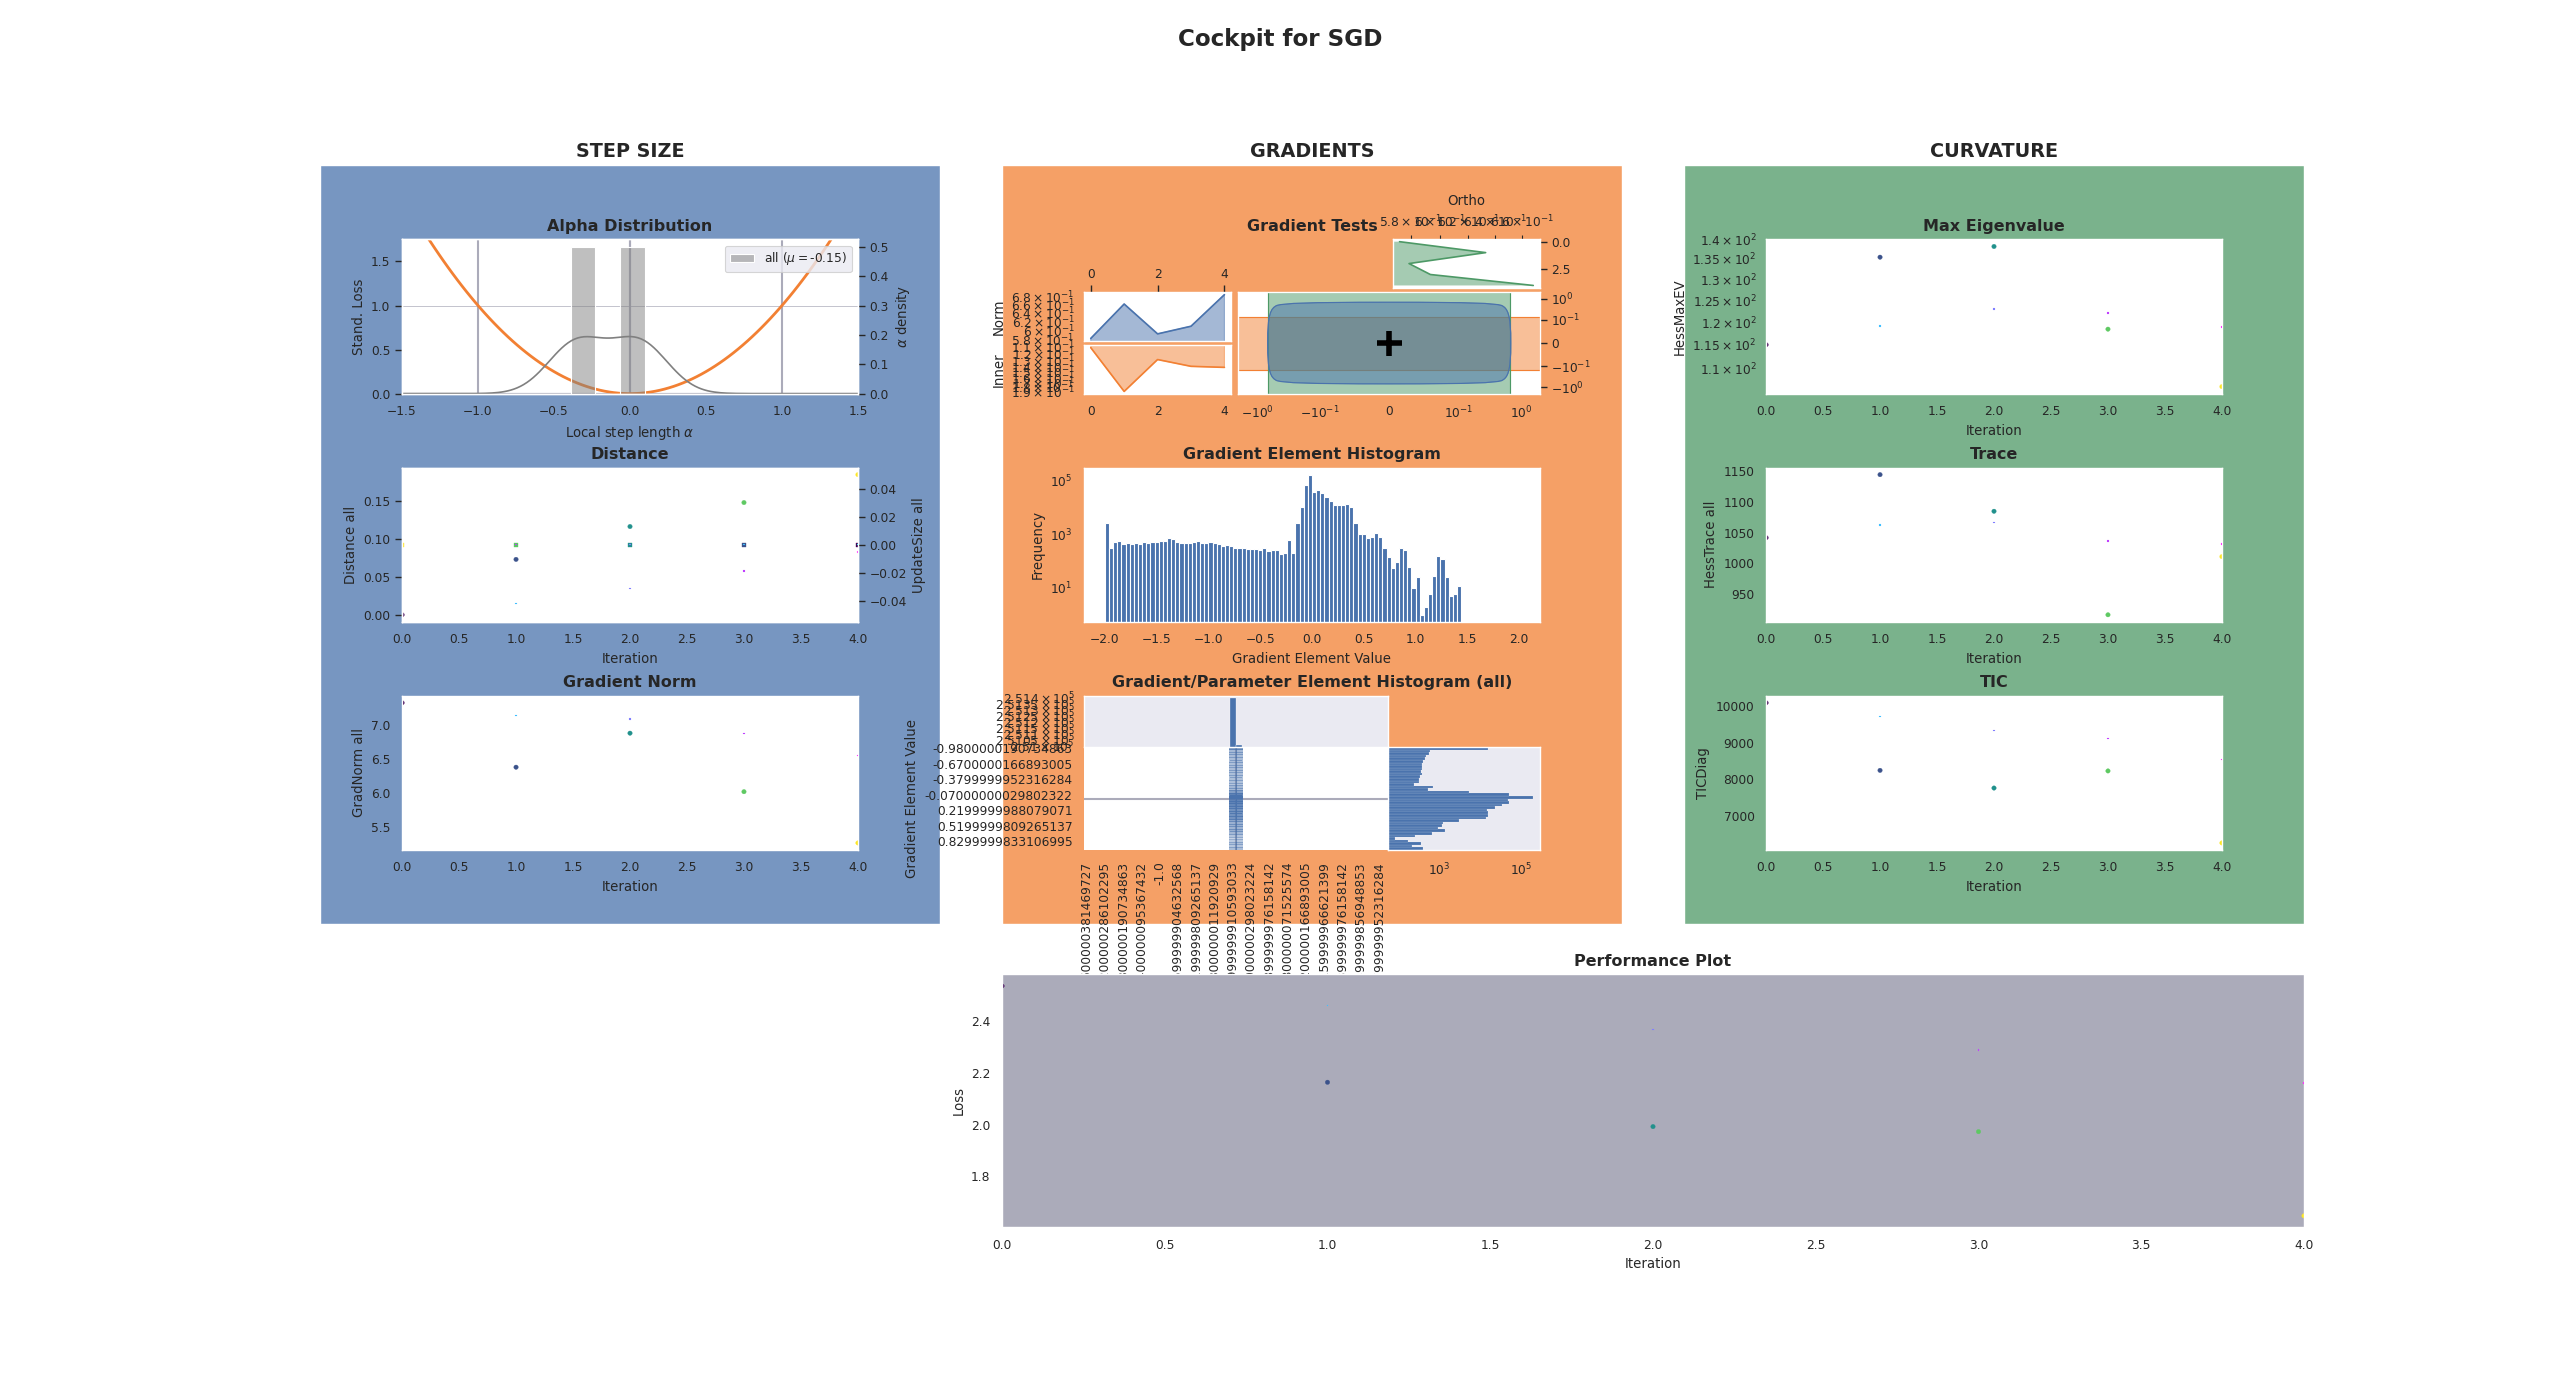
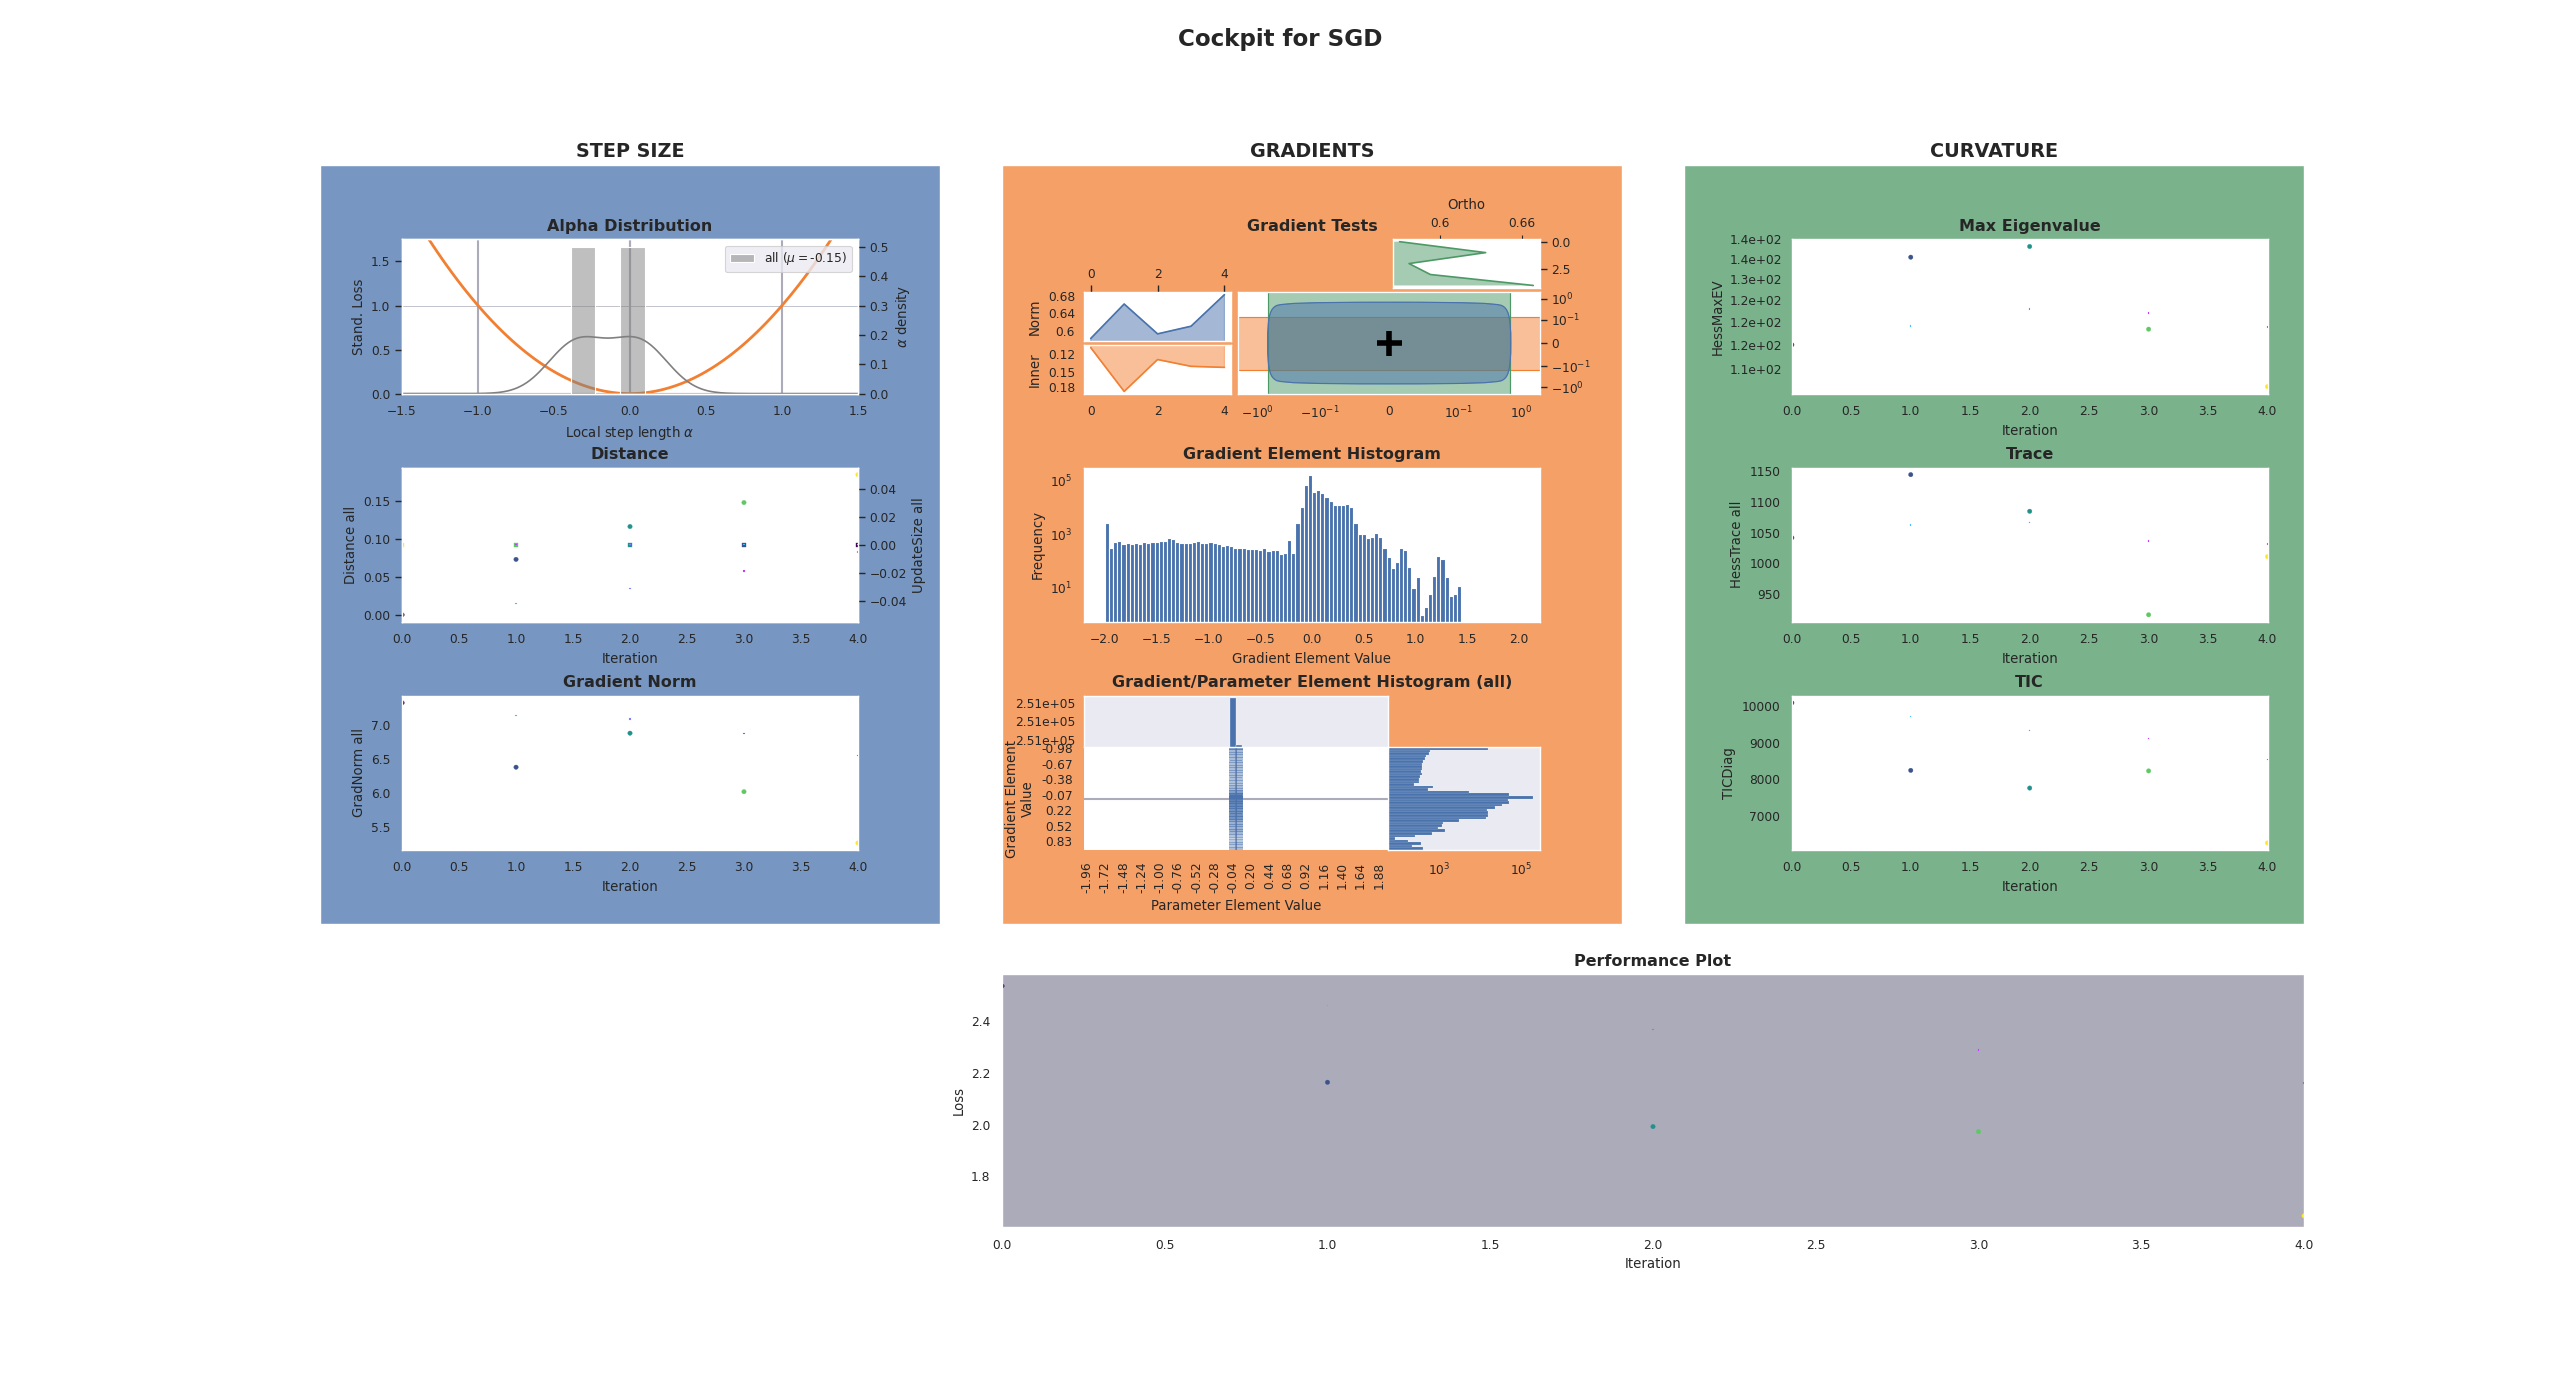
Incorporate feedback from alpha test (#2)
* [REP] Ignore build files of doc

* [DOC] Add pip install cmd to example

Highlight the need for the utils file

* [REP] Ignore logfiles (from running examples)

* [FIX] Move examples utilites out of subdir

* [DOC] Add install instruction for DeepOBS

* [DOC] Make pip install very prominent

* [DOC] Remove sphinx copybutton due to issue

Highlighted lines have an extra line break, probably related to this: https://github.com/executablebooks/sphinx-copybutton/issues/118

If there is a fix, we can enable it again.

* [DOC] Remove sphinx copybutton due to issue

    Highlighted lines have an extra line break, probably related to this: https://github.com/executablebooks/sphinx-copybutton/issues/118

    If there is a fix, we can enable it again.

* [FIX] Output to terminal when plotting

* [FIX] Ignore irrelevant torch warning for examples

* [DOC] Document terminal output in examples

* [TST] Define MPLBACKEND for tests

* [FIX] More meaningful plotting msg

* [DOC] Add a blocking plot after training

* [FIX] Move Curvature plots slighty right

* [FIX] Round histograms ticks

* [FIX] Format ticks

* [DOC] Update preview example 01

* [DOC] Make example 02 longer

* [DOC] Run DeepOBS Example for 50 epochs

* [DOC] Add quickstart page [WIP]

* [FIX] Use correct shift between start and end in UpdateSize (#3)

The old value was correctly documented to be 1, but wrongly set to 0.
This lead to the UpdateSize being zero, because parameters from the same
[…]

diff --git a/examples/02_advanced_fmnist.py b/examples/02_advanced_fmnist.py
@@ -1,8 +1,8 @@
 """A slightly advanced example of using Cockpit with PyTorch for Fashion-MNIST."""
 
 import torch
+from _utils_examples import cnn, fmnist_data, get_logpath
 from backpack import extend, extensions
-from utils.utils_examples import cnn, fmnist_data, get_logpath
 
 from cockpit import Cockpit, CockpitPlotter, quantities
 from cockpit.utils import schedules
@@ -19,16 +19,17 @@ opt = torch.optim.SGD(model.parameters(), lr=5e-1)
 # Create Cockpit and a plotter
 # Customize the tracked quantities and their tracking schedule
 quantities = [
-    quantities.GradNorm(schedules.linear(interval=2)),
+    quantities.GradNorm(schedules.linear(interval=1)),
     quantities.Distance(schedules.linear(interval=1)),
     quantities.UpdateSize(schedules.linear(interval=1)),
-    quantities.GradHist1d(schedules.linear(interval=4), bins=10),
+    quantities.HessMaxEV(schedules.linear(interval=3)),
+    quantities.GradHist1d(schedules.linear(interval=10), bins=10),
 ]
 cockpit = Cockpit(model.parameters(), quantities=quantities)
 plotter = CockpitPlotter()
 
 # Main training loop
-max_steps, global_step = 5, 0
+max_steps, global_step = 50, 0
 for inputs, labels in iter(fmnist_data):
     opt.zero_grad()
 
@@ -56,13 +57,14 @@ for inputs, labels in iter(fmnist_data):
 
     print(f"Step: {global_step:5d} | Loss: {loss.item():.4f}")
 
-    plotter.plot(
-        cockpit,
-        savedir=get_logpath(),
-        show_plot=False,
-        save_plot=True,
-        savename_append=str(global_step),
-    )
+    if global_step % 10 == 0:
+        plotter.plot(
+            cockpit,
+            savedir=get_logpath(),
+            show_plot=False,
+            save_plot=True,
+            savename_append=str(global_step),
+        )
 
     if global_step >= max_steps:
         break

diff --git a/cockpit/instruments/histogram_2d_gauge.py b/cockpit/instruments/histogram_2d_gauge.py
@@ -5,8 +5,13 @@ import warnings
 import numpy as np
 import pandas as pd
 import seaborn as sns
+from matplotlib import ticker
 
-from cockpit.instruments.utils_instruments import _beautify_plot, check_data
+from cockpit.instruments.utils_instruments import (
+    _beautify_plot,
+    _ticks_formatter,
+    check_data,
+)
 
 
 def histogram_2d_gauge(
@@ -76,7 +81,7 @@ def histogram_2d_gauge(
     joint_plot_args = {
         "facecolor": self.bg_color_instruments,
         "xlabel": "Parameter Element Value",
-        "ylabel": "Gradient Element Value",
+        "ylabel": "Gradient Element\nValue",
     }
 
     df = _get_2d_histogram_data(
@@ -88,6 +93,9 @@ def histogram_2d_gauge(
     sns.heatmap(data=df, cbar=False, cmap=cmap, ax=ax_joint)
 
     _beautify_plot(ax=ax_joint, **joint_plot_args)
+
+    ax_joint.set_xticklabels(_ticks_formatter(ax_joint.get_xticklabels()))
+    ax_joint.set_yticklabels(_ticks_formatter(ax_joint.get_yticklabels()))
 
     # "Zero lines
     # TODO This assumes that the bins are symmetrical!
@@ -109,6 +117,7 @@ def histogram_2d_gauge(
         ax_xmargin.barh(
             mid_points, vals, height=bin_size, color=self.primary_color, linewidth=0.1
         )
+        ax_xmargin.xaxis.set_minor_locator(ticker.MaxNLocator(3))
 
         ax_ymargin = fig.add_subplot(gs[0, :2])
         ax_ymargin.set_yscale("log")
@@ -127,6 +136,8 @@ def histogram_2d_gauge(
             color=self.primary_color,
             linewidth=0.2,
         )
+        ax_ymargin.yaxis.set_minor_locator(ticker.MaxNLocator(3))
+        ax_ymargin.yaxis.set_minor_formatter(ticker.FormatStrFormatter("%.3g"))
 
 
 def _default_trafo(array):

diff --git a/cockpit/instruments/gradient_tests_gauge.py b/cockpit/instruments/gradient_tests_gauge.py
@@ -4,6 +4,7 @@ import warnings
 
 import matplotlib as mpl
 import matplotlib.pyplot as plt
+from matplotlib import ticker
 
 from cockpit.instruments.utils_instruments import check_data
 
@@ -88,26 +89,29 @@ def _format(self, ax_all, ax_norm, ax_inner, ax_ortho):
 
     ax_norm.set_ylabel("Norm")
     ax_norm.set_yscale("log")
-
     ax_norm.xaxis.tick_top()
     ax_norm.set_facecolor(self.bg_color_instruments)
     ax_norm.set_xscale(iter_scale)
+    ax_norm.yaxis.set_minor_locator(ticker.MaxNLocator(3))
+    ax_norm.yaxis.set_minor_formatter(ticker.FormatStrFormatter("%.2g"))
 
     ax_inner.set_ylabel("Inner")
     ax_inner.set_yscale("log")
-
     ax_inner.invert_yaxis()
     ax_inner.set_facecolor(self.bg_color_instruments)
     ax_inner.set_xscale(iter_scale)
+    ax_inner.yaxis.set_minor_locator(ticker.MaxNLocator(3))
+    ax_inner.yaxis.set_minor_formatter(ticker.FormatStrFormatter("%.2g"))
 
     ax_ortho.set_title("Ortho")
     ax_ortho.xaxis.tick_top()
     ax_ortho.yaxis.tick_right()
     ax_ortho.set_xscale("log")
-
     ax_ortho.invert_yaxis()
     ax_ortho.set_yscale(iter_scale)
     ax_ortho.set_facecolor(self.bg_color_instruments)
+    ax_ortho.xaxis.set_minor_locator(ticker.MaxNLocator(2))
+    ax_ortho.xaxis.set_minor_formatter(ticker.FormatStrFormatter("%.2g"))
 
 
 def _plot(self, ax_all, ax_norm, ax_inner, ax_ortho):

diff --git a/examples/03_deepobs.py b/examples/03_deepobs.py
@@ -1,20 +1,19 @@
 """An example of using Cockpit with DeepOBS."""
 
+from _utils_deepobs import DeepOBSRunner
+from _utils_examples import get_logpath
 from torch.optim import SGD
-from utils.deepobs_runner import DeepOBSRunner
-from utils.utils_examples import get_logpath
 
 from cockpit.utils import configuration, schedules
 
 optimizer = SGD
 hyperparams = {"lr": {"type": float, "default": 0.001}}
 
-schedule = schedules.linear(20)
-quantities = configuration.configuration("full", track_schedule=schedule)
+track_schedule = schedules.linear(10)
+plot_schedule = schedules.linear(20)
+quantities = configuration.configuration("full", track_schedule=track_schedule)
 
-runner = DeepOBSRunner(
-    optimizer, hyperparams, quantities=quantities, plot_schedule=schedule
-)
+runner = DeepOBSRunner(optimizer, hyperparams, quantities, plot_schedule=plot_schedule)
 
 
 def const_schedule(num_epochs):
@@ -26,7 +25,7 @@ runner.run(
     testproblem="quadratic_deep",
     output_dir=get_logpath(),
     l2_reg=0.0,
-    num_epochs=15,
+    num_epochs=50,
     show_plots=True,
     save_plots=False,
     save_final_plot=True,

diff --git a/cockpit/plotter.py b/cockpit/plotter.py
@@ -152,6 +152,9 @@ class CockpitPlotter:
 
         # Show or Save plots
         if show_plot:
+            msg = "[cockpit|plot] Showing current Cockpit."
+            msg += " Blocking. Close plot to continue." if block else ""
+            print(msg)
             plt.show(block=block)
             plt.pause(0.001)
         if save_plot:
@@ -236,10 +239,13 @@ class CockpitPlotter:
 
         # Build inner structure of this plotting group
         # We use additional "dummy" gridspecs to position the instruments
+        inner_width_ratios_curvature = self.inner_width_ratios[:]
+        inner_width_ratios_curvature[2] = 0.0
+        inner_width_ratios_curvature[0] = 1.5 * inner_width_ratios_curvature[0]
         self.gs_curvature = grid_spec.subgridspec(
             self.inner_num_rows,
             self.inner_num_cols,
-            width_ratios=self.inner_width_ratios,
+            width_ratios=inner_width_ratios_curvature,
             height_ratios=self.inner_height_ratios,
             hspace=self.inner_hspace,
         )

diff --git a/tests/test_examples/test_examples.py b/tests/test_examples/test_examples.py
@@ -4,23 +4,19 @@ import os
 import pathlib
 import runpy
 import sys
-from unittest.mock import patch
 
-import matplotlib as mpl
 import pytest
 
-mpl.use("Agg")
+SCRIPTS = sorted(pathlib.Path(__file__, "../../..", "examples").resolve().glob("*.py"))
+SCRIPTS_STR, SCRIPTS_ID = [], []
+for s in SCRIPTS:
+    if not str(s).split("/")[-1].startswith("_"):
+        SCRIPTS_STR.append(str(s))
+        SCRIPTS_ID.append(str(s).split("/")[-1].split(".")[0])
 
-scripts = sorted(pathlib.Path(__file__, "../../..", "examples").resolve().glob("*.py"))
-scripts_str, scripts_id = [], []
-for s in scripts:
-    scripts_str.append(str(s))
-    scripts_id.append(str(s).split("/")[-1].split(".")[0])
 
-
-@patch("time.sleep")
-@pytest.mark.parametrize("script", scripts_str, ids=scripts_id)
-def test_example_scripts(mock, script):
+@pytest.mark.parametrize("script", SCRIPTS_STR, ids=SCRIPTS_ID)
+def test_example_scripts(script):
     """Run a single example script.
 
     Args:

diff --git a/cockpit/instruments/utils_instruments.py b/cockpit/instruments/utils_instruments.py
@@ -2,6 +2,7 @@
 
 import warnings
 
+import matplotlib as mpl
 import seaborn as sns
 
 
@@ -294,3 +295,22 @@ def check_data(data, requires, min_elements=1):
                 return False
 
     return True
+
+
+def _ticks_formatter(ticklabels, format_str="{:.2f}"):
+    """Format the ticklabels.
+
+    Args:
+        ticklabels ([mpl.text.Text]): List of ticklabels.
+        format_str (str, optional): Formatting string for the labels.
+            Defaults to "{:.2f}".
+
+    Returns:
+        [mpl.text.Text]: Reformatted list of ticklabels.
+    """
+    new_ticks = []
+    for tick in ticklabels:
+        rounded_label = format_str.format(float(tick.get_text()))
+        new_tick = mpl.text.Text(*tick.get_position(), rounded_label)
+        new_ticks.append(new_tick)
+    return new_ticks

diff --git a/cockpit/quantities/update_size.py b/cockpit/quantities/update_size.py
@@ -10,10 +10,10 @@ class UpdateSize(TwoStepQuantity):
     """str: String under which the parameters are cached for computation.
        Default: ``'params'``.
     """
-    SAVE_SHIFT = 0
-    """int: Difference between iteration at which information is computed versus 
-       iteration under which it is stored. For instance, if set to ``1``, the 
-       information computed at iteration ``n + 1`` is saved under iteration ``n``. 
+    SAVE_SHIFT = 1
+    """int: Difference between iteration at which information is computed versus
+       iteration under which it is stored. For instance, if set to ``1``, the
+       information computed at iteration ``n + 1`` is saved under iteration ``n``.
        Defaults to ``1``.
     """
 

diff --git a/examples/01_basic_fmnist.py b/examples/01_basic_fmnist.py
@@ -1,8 +1,8 @@
 """A basic example of using Cockpit with PyTorch for Fashion-MNIST."""
 
 import torch
+from _utils_examples import fmnist_data
 from backpack import extend
-from utils.utils_examples import fmnist_data
 
 from cockpit import Cockpit, CockpitPlotter
 from cockpit.utils.configuration import configuration
@@ -52,3 +52,5 @@ for inputs, labels in iter(fmnist_data):
 
     if global_step >= max_steps:
         break
+
+plotter.plot(cockpit, block=True)

diff --git a/examples/_utils_examples.py b/examples/_utils_examples.py
@@ -1,6 +1,7 @@
 """Utility functions for the basic PyTorch example."""
 
 import os
+import warnings
 
 import torch
 import torchvision
@@ -8,6 +9,9 @@ import torchvision
 HERE = os.path.abspath(__file__)
 HEREDIR = os.path.dirname(HERE)
 EXAMPLESDIR = os.path.dirname(HEREDIR)
+
+# Ignore the PyTorch warning that is irrelevant for us
+warnings.filterwarnings("ignore", message="Using a non-full backward hook ")
 
 
 def fmnist_data(batch_size=64, shuffle=True):

diff --git a/cockpit/instruments/max_ev_gauge.py b/cockpit/instruments/max_ev_gauge.py
@@ -2,6 +2,8 @@
 
 import warnings
 
+from matplotlib import ticker
+
 from cockpit.instruments.utils_instruments import check_data, create_basic_plot
 
 
@@ -64,3 +66,5 @@ def max_ev_gauge(self, fig, gridspec):
     # part that should be plotted
     ax = fig.add_subplot(gridspec)
     create_basic_plot(**plot_args, ax=ax)
+
+    ax.yaxis.set_minor_formatter(ticker.FormatStrFormatter("%.2g"))

diff --git a/docs/source/conf.py b/docs/source/conf.py
@@ -55,7 +55,7 @@ extensions = [
     "sphinx.ext.napoleon",
     "sphinx.ext.viewcode",
     "sphinx_automodapi.automodapi",
-    "sphinx_copybutton",
+    # "sphinx_copybutton",
     "sphinx_rtd_theme",
 ]
 
